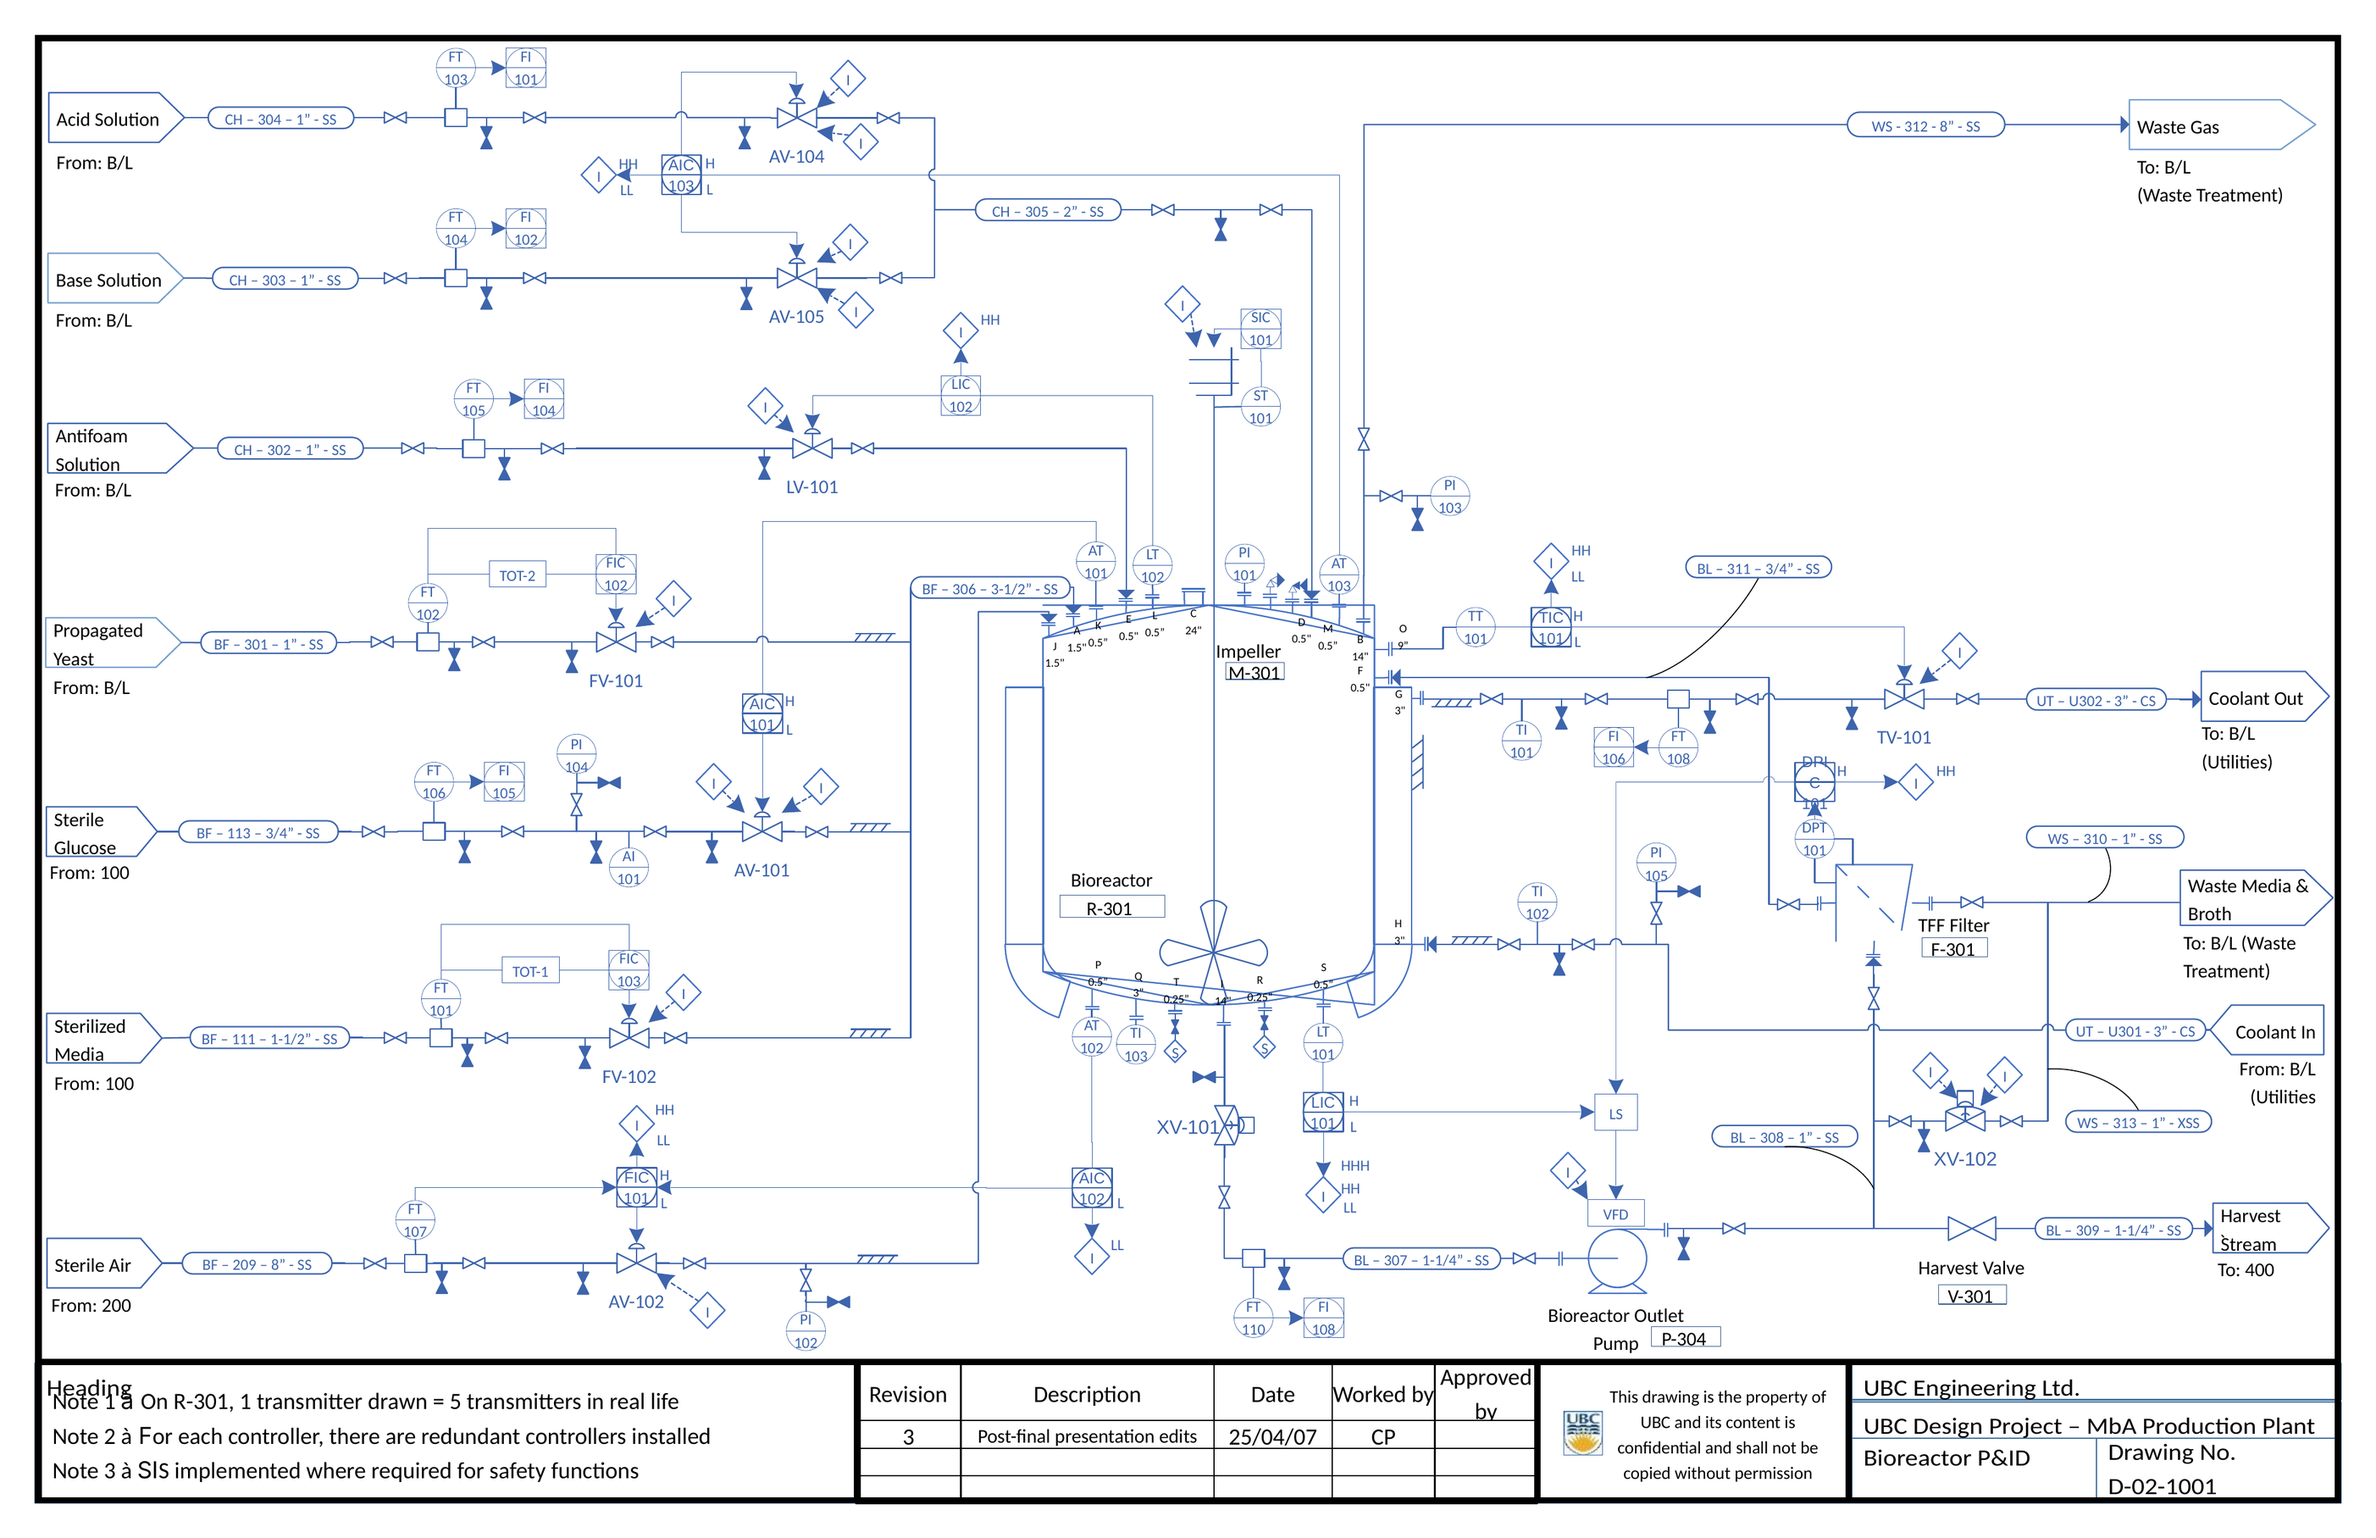
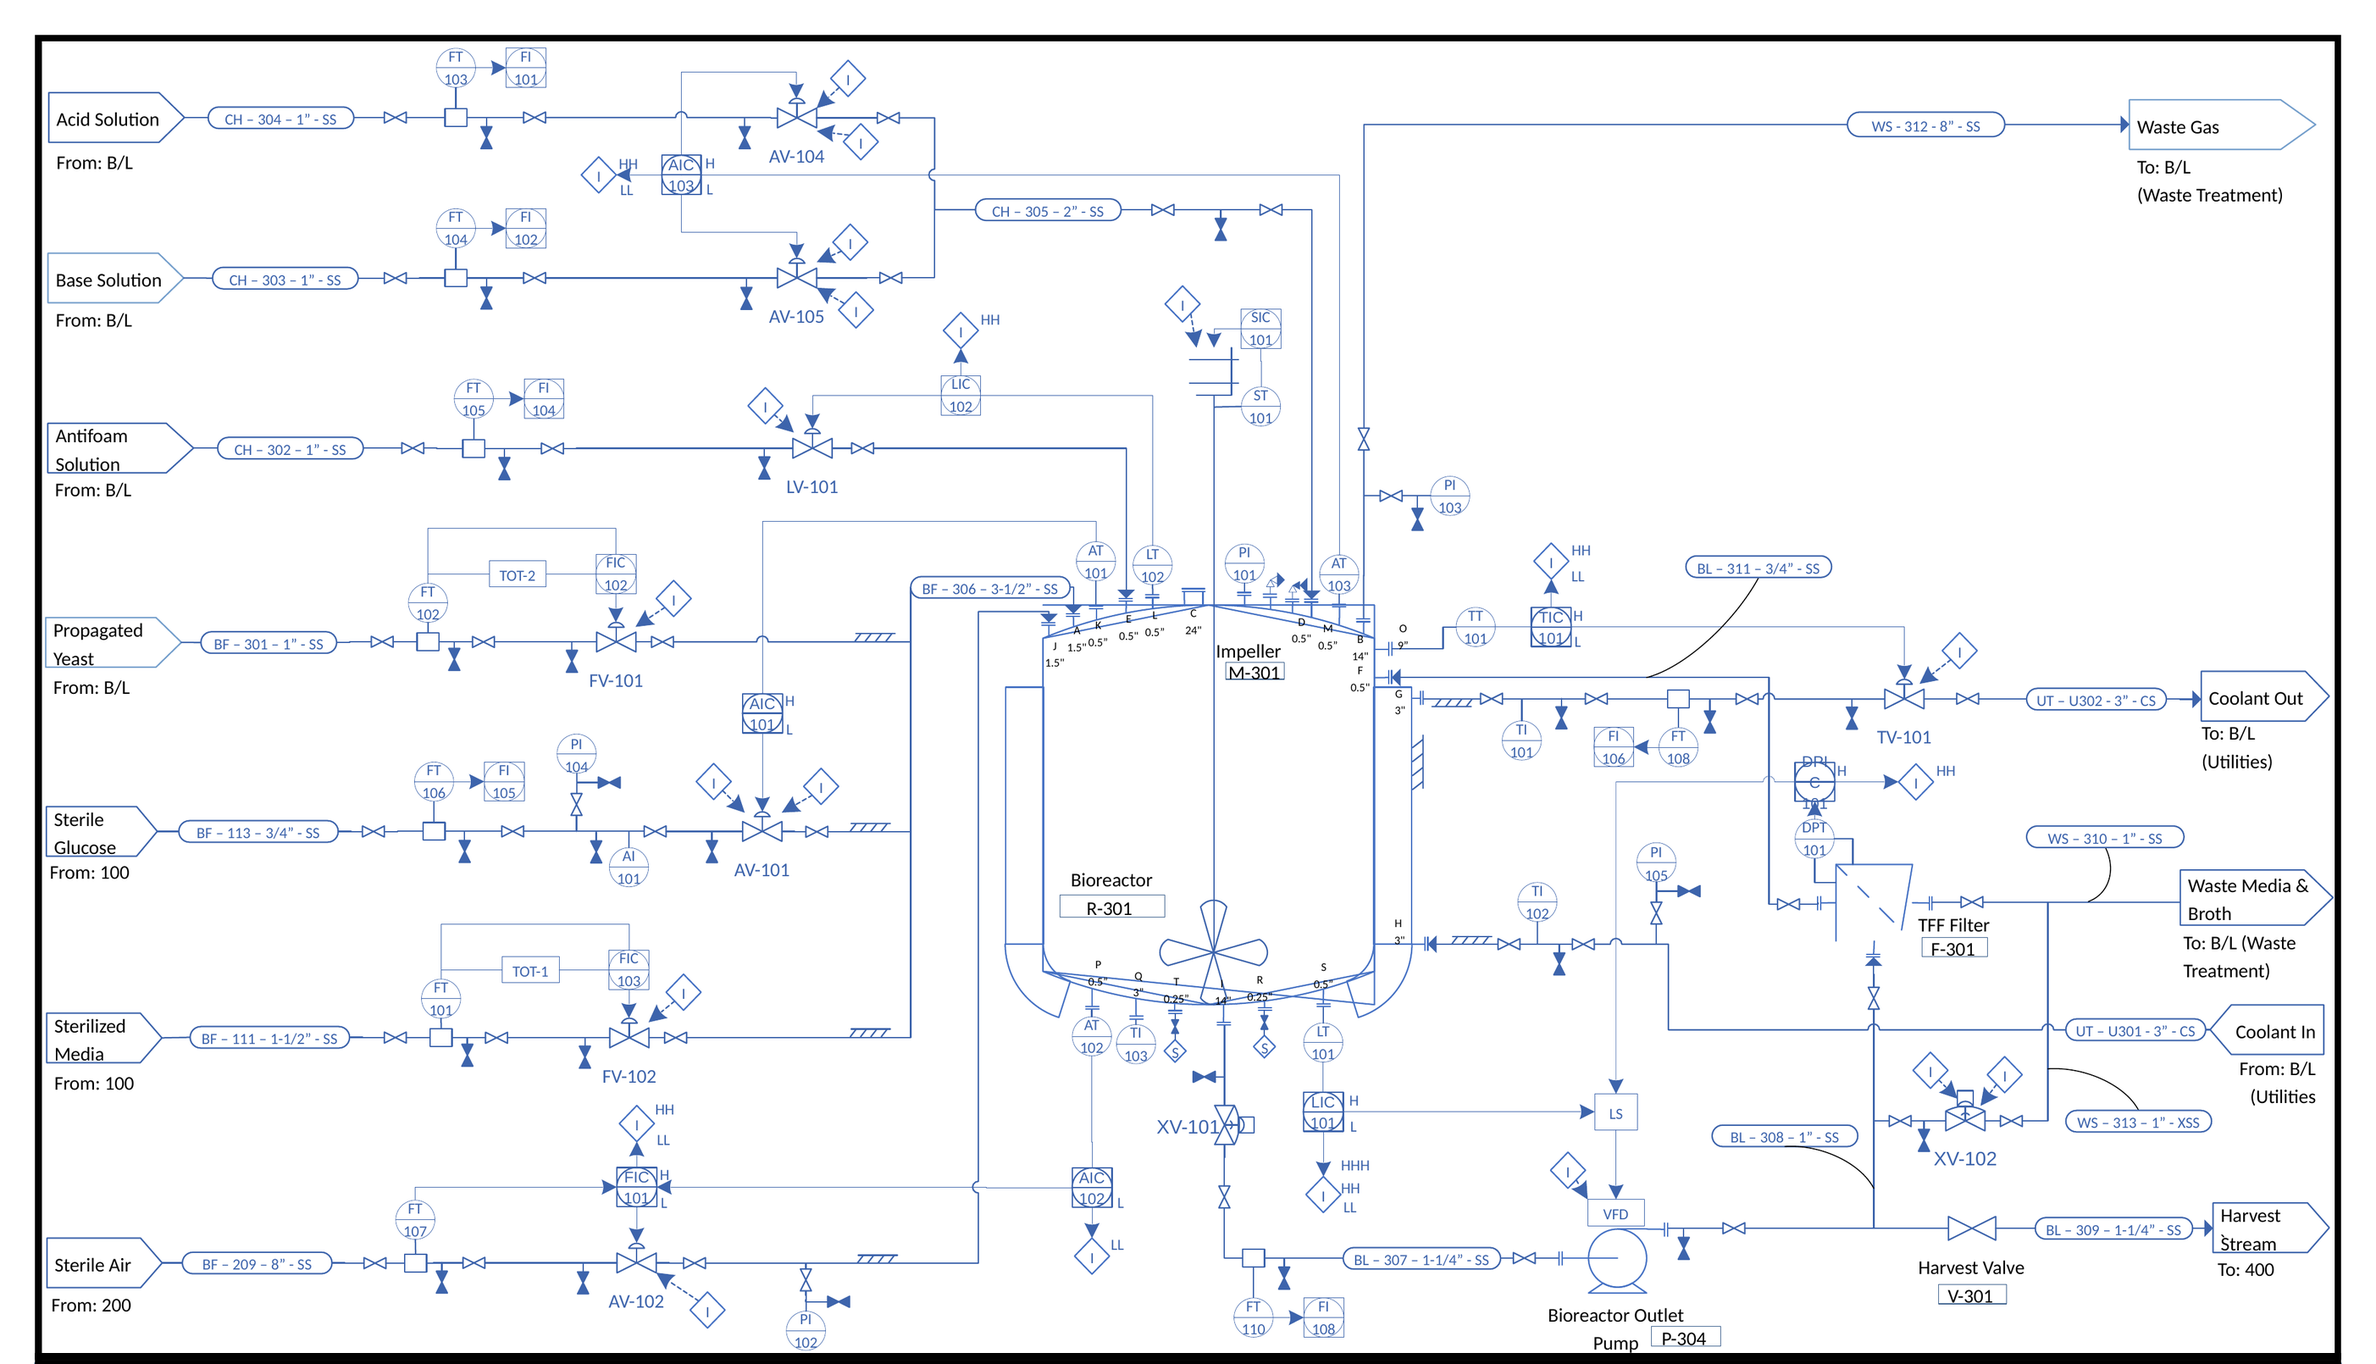
Capstone draft: crop title block from the full P&ID
Claude-Session: https://claude.ai/code/session_01RRyVQH5CW43uV76jxagr7P

diff --git a/projects/capstone-montbretin.html b/projects/capstone-montbretin.html
@@ -115,7 +115,7 @@
     <p>Both feed valves fail closed and carry interlocks: on a utility failure, nothing of uncertain sterility reaches the fermenter, and the vessel can't be overfilled or overfed. Each line has block valves either side of the instruments and drain valves for maintenance.</p>
     <figure>
       <img src="../assets/media/capstone/pid-bioreactor-r301.png" data-zoom alt="Full bioreactor P&amp;ID, drawing D-02-1001: fermenter R-301 with acid, base, antifoam, yeast, glucose, media and air feeds, coolant, waste gas, TFF filter F-301 and harvest pump P-304.">
-      <figcaption>Full bioreactor P&amp;ID (drawing D-02-1001, team drawing).</figcaption>
+      <figcaption>Full bioreactor P&amp;ID (team drawing).</figcaption>
     </figure>
   </div>
 
